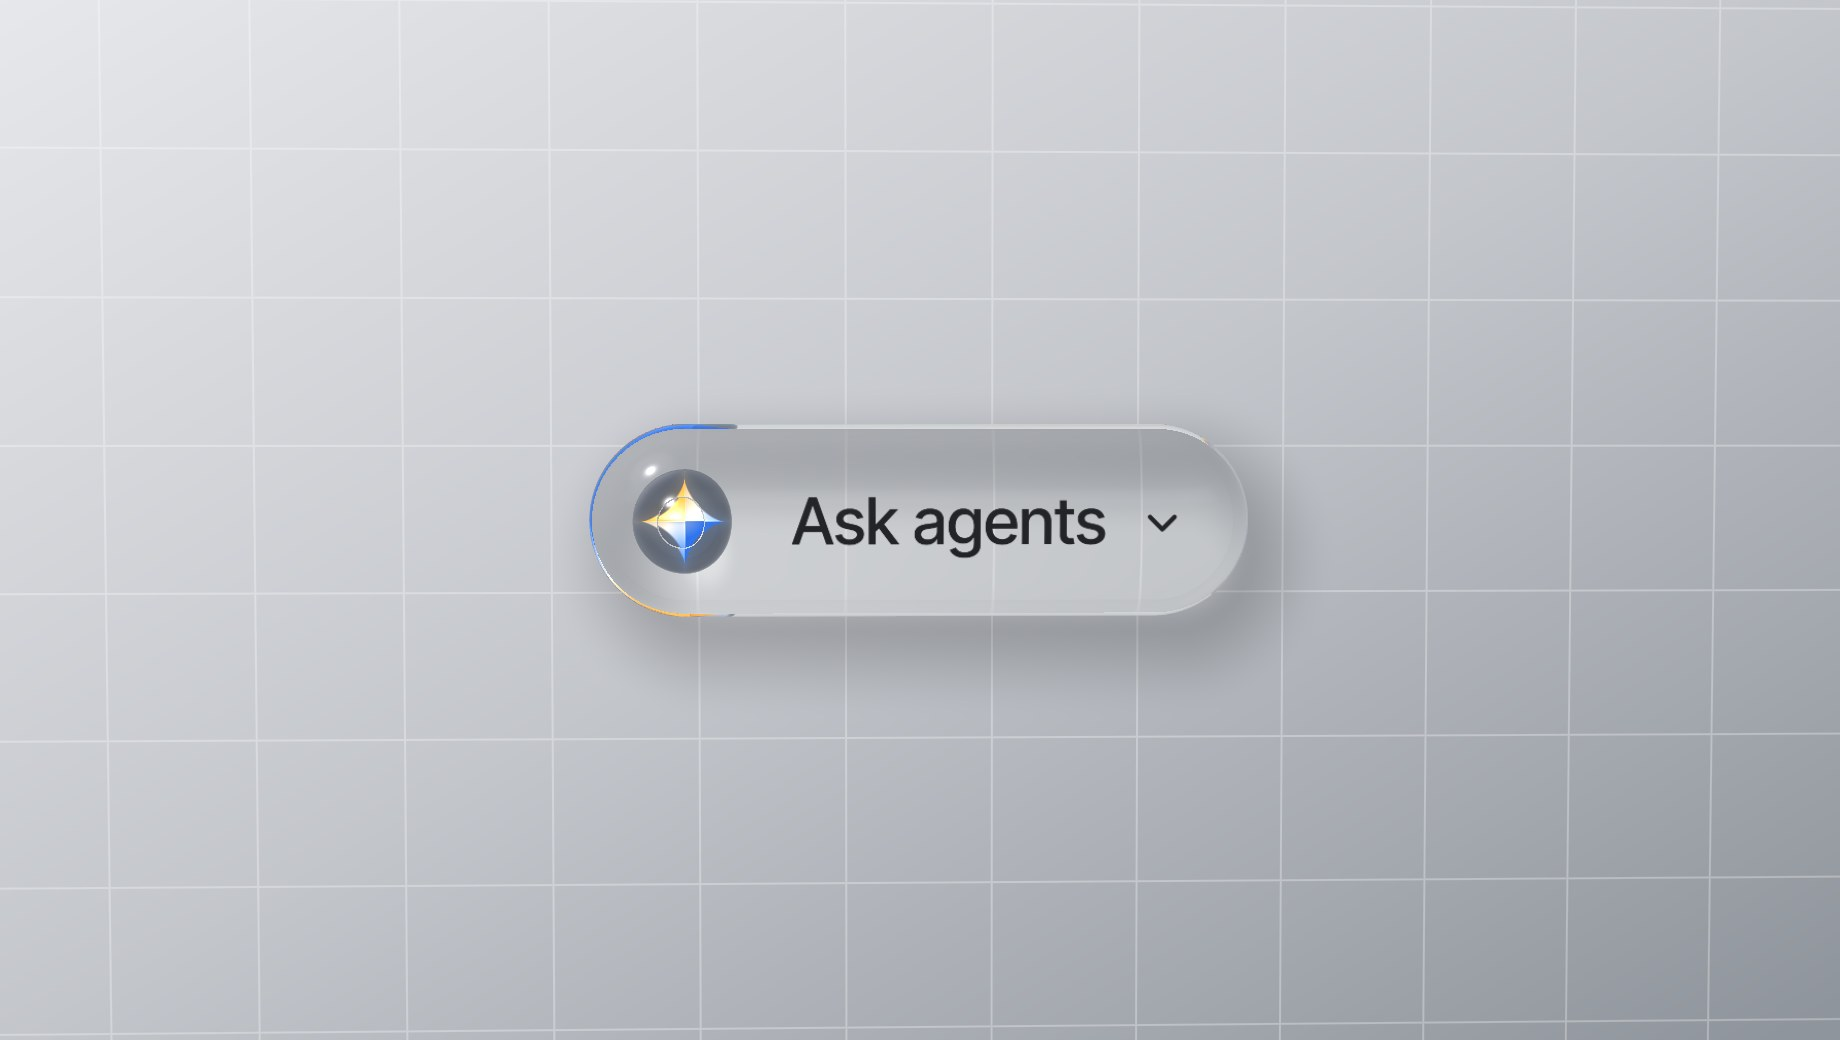
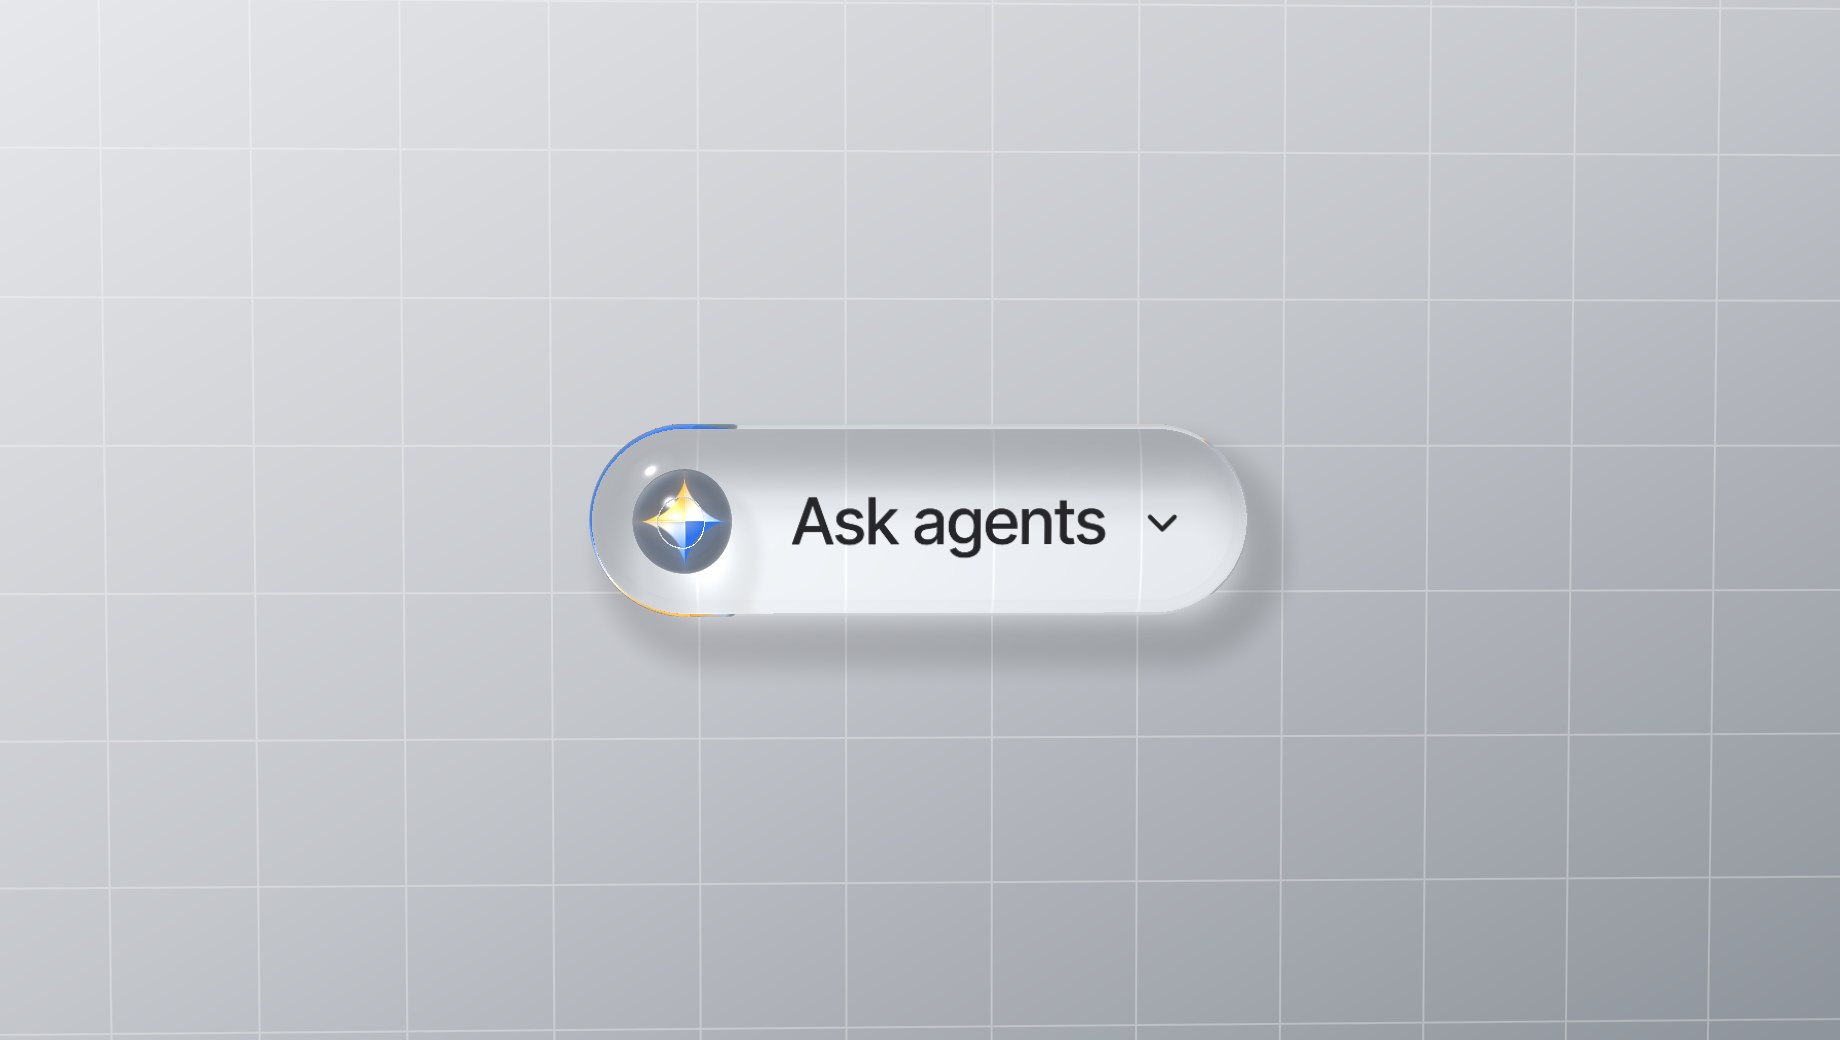
lab-board: Glass Button, only the rim throws a shadow, like liquid glass
The full shadow under the solid is replaced by a soft band along the edge, so the
middle of the glass stays clear and bright with its caustic; the bead gets the
same rim shadow. Thumbnail refreshed.

Changed region(s): [[0.3408, 0.4308, 0.6815, 0.6154]]

diff --git a/lab-board/pieces/glass-button/index.html b/lab-board/pieces/glass-button/index.html
@@ -927,13 +927,14 @@ vec3 pageAt(vec2 q, float fp){
   float R = uBox.w, hmid = ZM + (uShape.y + max(uShape.z, 0.0)) * 0.5;
   vec2 so = -L.xy / max(L.z, 0.25) * hmid * 0.4, som = -L.xy / max(L.z, 0.25) * (hmid + uMenuZ) * 0.4;
   float ds = max(-footB(q - so), -footM(q - som));      // a menu floating higher throws its shadow further
-  float shadow = smoothstep(-R * 0.75 - uShape2.z, R * 0.45, ds) * 0.2;
+  // like liquid glass only the rim throws a shadow: a soft band along the edge, the middle stays clear and bright
+  float shadow = smoothstep(-R * 0.4 - uShape2.z, 0.0, ds) * (1.0 - smoothstep(R * 0.02, R * 0.55, ds)) * 0.12;
   float conv = clamp(uShape.z / R / 0.72, 0.0, 1.4), dish = clamp(-uShape.z / R, 0.0, 1.0);
   float caus = smoothstep(R * 0.12, R * 0.8, ds) * (0.38 + 0.25 * uOptics.w) * conv * (uOptics.x - 1.0) * 2.0;
   caus += smoothstep(0.0, R * 0.25, ds) * (1.0 - smoothstep(R * 0.25, R * 0.6, ds)) * dish * 0.35;
   // the bead: a lighter shadow with a small bright focus, since it is clear glass
   float db = BR - length(q - BC.xy + L.xy / max(L.z, 0.25) * BC.z * 0.35);
-  shadow = max(shadow, smoothstep(-BR * 0.5, BR * 0.6, db) * 0.18 * (0.35 + 0.65 * uBead2.x));
+  shadow = max(shadow, smoothstep(-BR * 0.35, 0.0, db) * (1.0 - smoothstep(BR * 0.05, BR * 0.6, db)) * 0.12 * (0.35 + 0.65 * uBead2.x));
   caus += smoothstep(BR * 0.3, BR * 0.8, db) * 0.25 * (1.0 - uBead2.x);
   // the shadow and its caustic are always there (Shadow strength); the glow is only extra light on top
   c = c * (1.0 - shadow * uLightK.w) + vec3(1.0, 0.985, 0.95) * caus * 0.38 * uLightK.w;

diff --git a/lab-board/pieces/glass-button/README.md b/lab-board/pieces/glass-button/README.md
@@ -17,7 +17,7 @@ Cała scena to mały ray tracer w jednym shaderze WebGL2 (GLSL 300 es). DOM-owy 
 - *Content*: tekst przycisku, kolor i krycie nadruku, strzałka.
 - *Layout*: skala, wysokość, paddingi, odstęp, grubość fontu (Inter Tight 400–600).
 - *Background* (na górze panelu): siatka jasna, ciemna albo na dowolnym kolorze z pickera (*Background colour*), gęstość siatki i siła jej linii; linie same robią się ciemne na bardzo jasnym kolorze. Do tego **Upload** obrazka albo wideo (też przeciągnięciem albo wklejeniem), plik zostaje w przeglądarce (*Image scale* go powiększa).
-- *Shadow*: siła cienia (cień z kaustyką jest zawsze ten sam i zawsze słucha tego suwaka) i przełącznik **Glow**, który tylko dokłada światło na wierzchu: kolorową poświatę pod i wokół szkła, której barwy powoli płyną wzdłuż przycisku, jak podświetlenie za telewizorem. Palety (Aurora, Star, Ocean, Ember), siła, rozmiar i tempo ruchu pokazują się dopiero po włączeniu; włączenie przy sile 0 samo ustawia domyślną. Przez szkło widać poświatę załamaną.
+- *Shadow*: siła cienia. Jak w Liquid Glass cień rzuca tylko krawędź: miękki pas wzdłuż rantu, a środek szkła zostaje jasny, z kaustyką (skupionym światłem) w środku; zawsze ten sam i zawsze słucha tego suwaka i przełącznik **Glow**, który tylko dokłada światło na wierzchu: kolorową poświatę pod i wokół szkła, której barwy powoli płyną wzdłuż przycisku, jak podświetlenie za telewizorem. Palety (Aurora, Star, Ocean, Ember), siła, rozmiar i tempo ruchu pokazują się dopiero po włączeniu; włączenie przy sile 0 samo ustawia domyślną. Przez szkło widać poświatę załamaną.
 - *Menu*: odstęp od przycisku, *Liquid* (0 = osobne kawałki, 1 = zlewają się w jedną bryłę), wysokość w osi Z.
 - Każdą wartość liczbową można kliknąć i wpisać z klawiatury (przecinek też działa); Enter zatwierdza, Esc cofa, strzałki zmieniają o krok (z Shiftem o 10).
 - *Sound*: dźwięk kliknięcia syntezowany w przeglądarce (Web Audio, bez plików: krótkie tony z wybrzmieniem i ułamek przefiltrowanego szumu): Glass, Tick, Soft, Pop, Bubble, Key albo Off; kliknięcie w nazwę od razu go odtwarza. *Upload sound…* wgrywa własny plik audio (przy puszczeniu gra ciszej i odrobinę wyżej). Opcjonalnie lżejszy dźwięk przy puszczeniu, głośność.
@@ -27,7 +27,7 @@ Cała scena to mały ray tracer w jednym shaderze WebGL2 (GLSL 300 es). DOM-owy 
 
 **Kulka** jest z przezroczystego, lekko przydymionego szkła i działa jak soczewka kulista: pokazuje odwróconą i powiększoną stronę za sobą. Gwiazdka leży na płaszczyźnie przez jej środek, a jej gradient obraca się za światłem, przesuwa z kątem patrzenia jak hologram i lekko „oddycha”.
 
-**Reszta** bez zmian od v4: nadruk (napis i strzałka) na górnej powierzchni, ostry i nad refrakcją; do dwóch odbić wewnętrznych przy rancie; wyjście z trzema IOR (rozszczepienie); cień z kaustyką (wypukła skupia światło, wklęsła rozprasza je w pierścień); obrót 3D środkowym przyciskiem myszy / Alt / dwoma palcami, „reset view” albo R / 0. **Zoom**: kółko myszy (albo pinch na trackpadzie) przybliża do miejsca pod kursorem, od 0,5× do 8×; na dotyku szczypanie, na klawiaturze + i -. Przy zbliżeniu nadruk jest przerysowywany w wyższej rozdzielczości (do 4096 px), żeby został ostry.
+**Reszta** bez zmian od v4: nadruk (napis i strzałka) na górnej powierzchni, ostry i nad refrakcją; do dwóch odbić wewnętrznych przy rancie; wyjście z trzema IOR (rozszczepienie); cień przy krawędzi i kaustyka (wypukła skupia światło, wklęsła rozprasza je w pierścień); obrót 3D środkowym przyciskiem myszy / Alt / dwoma palcami, „reset view” albo R / 0. **Zoom**: kółko myszy (albo pinch na trackpadzie) przybliża do miejsca pod kursorem, od 0,5× do 8×; na dotyku szczypanie, na klawiaturze + i -. Przy zbliżeniu nadruk jest przerysowywany w wyższej rozdzielczości (do 4096 px), żeby został ostry.
 
 **Wydajność** (ważne na Windows, gdzie WebGL idzie przez ANGLE/D3D):
 - pętle mają długości zależne od uniformu `uOne`, bo kompilator D3D rozwijałby stałe pętle w nieskończoność (kompilacja trwała ponad minutę i kończyła się utratą kontekstu);
